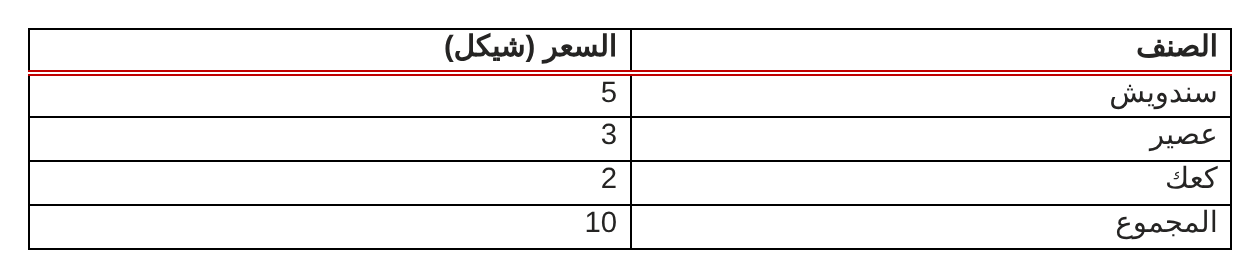
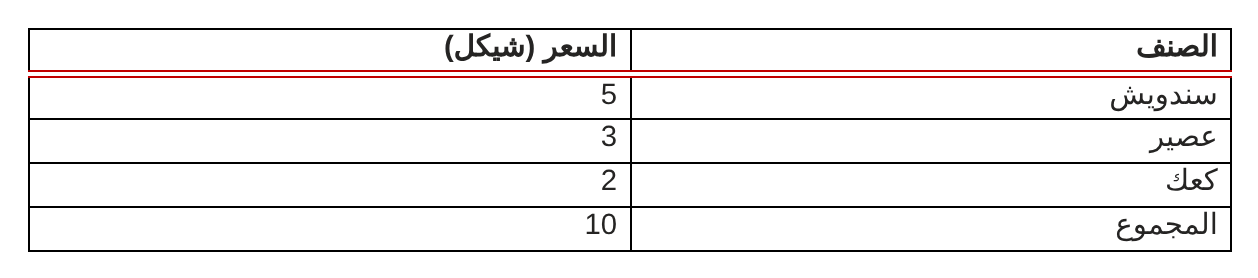
قائمة الحدود مثل Word: كل أمر مفتاح تشغيل/إيقاف، الأوامر المفعّلة مظلّلة، وإضافة حد داخلي أفقي/عمودي وحدود قطرية
Claude-Session: https://claude.ai/code/session_01SbWiHNL6HNT2SQV93v4NLa

diff --git a/js/tabletools.js b/js/tabletools.js
@@ -230,3 +230,44 @@ window.bordersDlg=function(tab){if(!needCell())return;const t=S.curCell.closest(
    qa('.bdApply').forEach(x=>x.onchange=()=>{st.apply=x.value;paint()});
    if(tab==='shade')qa('.bdtabs button')[2].click();paint()}})};
 OPS.tborders=(function(prev){return function(a){if(a==='more')return window.bordersDlg();return prev.call(this,a)}})(OPS.tborders);
+
+/* ===== قائمة «حدود» مثل Word: كل أمر يعمل كمفتاح — إذا كان الحد موجودًا بنفس القلم يُزال، وإلا يُطبَّق ===== */
+(function(){
+const KS={all:['top','bottom','left','right','ih','iv'],outside:['top','bottom','left','right'],inside:['ih','iv'],ih:['ih'],iv:['iv'],top:['top'],bottom:['bottom'],left:['left'],right:['right']};
+const tbCells=()=>{const t=S.curCell.closest('table');return S.selCells.length?[...S.selCells]:[...t.querySelectorAll('td')]};
+const inf=(td,s)=>{const c=getComputedStyle(td),S2=SIDE_CAP[s];return {s:c['border'+S2+'Style'],w:parseFloat(c['border'+S2+'Width'])||0,c:c['border'+S2+'Color']}};
+const vis=i=>i.s!=='none'&&i.s!=='hidden'&&i.w>0&&!/rgba\(0, 0, 0, 0\)|transparent/.test(i.c);
+const rgb=h=>{const d=document.createElement('i');d.style.color=h;document.body.appendChild(d);const v=getComputedStyle(d).color;d.remove();return v};
+function pen(){const p=S.pen||{};return {s:p.s||'solid',w:Math.max(+p.w||1,p.s==='double'?4:1),c:rgb(p.c||'#000')}}
+const same=(i,p)=>i.s===p.s&&Math.abs(i.w-p.w)<.6&&i.c===p.c;
+function edges(cs){const t=cs[0].closest('table'),g=gridMap(t),rtl=isRTLt(t);const bs=cs.map(c=>g.get(c)).filter(Boolean);if(!bs.length)return [];
+  const R1=Math.min(...bs.map(b=>b.r1)),R2=Math.max(...bs.map(b=>b.r2)),C1=Math.min(...bs.map(b=>b.c1)),C2=Math.max(...bs.map(b=>b.c2));const lo=rtl?'right':'left',hi=rtl?'left':'right';const out=[];
+  cs.forEach(c=>{const v=g.get(c);if(!v)return;const outer={top:v.r1===R1,bottom:v.r2===R2,[lo]:v.c1===C1,[hi]:v.c2===C2};
+    ['top','bottom','left','right'].forEach(s=>{const k=outer[s]?s:(s==='top'||s==='bottom')?'ih':'iv';out.push({k,td:c,s})})});return out}
+function edgeOn(e,p){const a=inf(e.td,e.s);if(vis(a))return p?same(a,p):true;const n=neighbour(e.td,e.s);if(n){const b=inf(n,OPP[e.s]);if(vis(b))return p?same(b,p):true}return false}
+const DG={diagDown:'d',diagUp:'u'};
+function hasDiag(td,k){return (td.dataset.dg||'').includes(k)}
+function drawDiag(td){td.querySelector(':scope > svg.tdiag')?.remove();const dg=td.dataset.dg||'';if(!dg){if(td.style.position==='relative')td.style.position='';return}
+  const c=td.dataset.dgc||'#000',w=td.dataset.dgw||1;td.style.position='relative';
+  const ns='http://www.w3.org/2000/svg',sv=document.createElementNS(ns,'svg');sv.setAttribute('class','tdiag');sv.setAttribute('viewBox','0 0 100 100');sv.setAttribute('preserveAspectRatio','none');sv.setAttribute('contenteditable','false');
+  sv.setAttribute('style','position:absolute;inset:0;width:100%;height:100%;pointer-events:none;overflow:visible');
+  sv.innerHTML=(dg.includes('d')?`<line x1="0" y1="0" x2="100" y2="100" stroke="${c}" stroke-width="${w}" vector-effect="non-scaling-stroke"/>`:'')+(dg.includes('u')?`<line x1="0" y1="100" x2="100" y2="0" stroke="${c}" stroke-width="${w}" vector-effect="non-scaling-stroke"/>`:'');td.appendChild(sv)}
+window.drawDiag=drawDiag;
+window.TB_STATE=a=>{try{if(!S.curCell||!S.curCell.closest('table'))return false;const cs=tbCells();if(DG[a])return cs.every(td=>hasDiag(td,DG[a]));
+  if(a==='none'){return edges(cs).every(e=>!edgeOn(e))&&cs.every(td=>!td.dataset.dg)}const ks=KS[a];if(!ks)return false;const es=edges(cs).filter(e=>ks.includes(e.k));return es.length>0&&es.every(e=>edgeOn(e))}catch(e){return false}};
+const prev=OPS.tborders;
+OPS.tborders=function(a){if(a==='more')return window.bordersDlg();if(a==='drawTable'||a==='viewGrid')return run(a);if(!needCell())return;const cs=tbCells();
+  if(DG[a]){snap();const k=DG[a],on=!cs.every(td=>hasDiag(td,k)),p=S.pen||{};cs.forEach(td=>{let d=(td.dataset.dg||'').replace(k,'');if(on){d+=k;td.dataset.dgc=p.c||'#000';td.dataset.dgw=Math.max(+p.w||1,1)}if(d)td.dataset.dg=d;else{delete td.dataset.dg;delete td.dataset.dgc;delete td.dataset.dgw}drawDiag(td)});logAct('tborders:'+a+(on?'':':off'));SIM.emit&&SIM.emit('change');return}
+  const ks=KS[a||'all'];
+  if(ks){const P=pen();const es=edges(cs).filter(e=>ks.includes(e.k));const off=es.length&&es.every(e=>edgeOn(e,P));
+    if(off&&!S._noTog){snap();const sp={};ks.forEach(k=>sp[k]=false);applyBorderSet(cs,sp,penBd());logAct('tborders:'+a+':off');SIM.emit&&SIM.emit('change');try{simToast('أُزيل الحد — اضغطه مرة أخرى لإرجاعه')}catch(e){}return}
+    snap();const sp={};ks.forEach(k=>sp[k]=true);applyBorderSet(cs,sp,penBd());logAct('tborders:'+(a||'all'));SIM.emit&&SIM.emit('change');return}
+  if(a==='none'){const r=prev.call(this,a);cs.forEach(td=>{if(td.dataset.dg){delete td.dataset.dg;delete td.dataset.dgc;delete td.dataset.dgw;drawDiag(td)}});return r}
+  return prev.call(this,a)};
+/* إظهار الأمر المفعّل في القائمة (مثل Word) */
+const _om=openMenu;openMenu=function(w){_om(w);try{const dd=w.querySelector('[data-dd]');const cmd=dd&&dd.dataset.cmd;const F=cmd==='tborders'?window.TB_STATE:cmd==='pborders'?window.PB_STATE:null;
+  w.querySelectorAll('.dd .mi.act').forEach(m=>m.classList.remove('act'));if(F)w.querySelectorAll('.dd .mi[data-arg]').forEach(m=>{if(!['more','hr','drawTable'].includes(m.dataset.arg)&&F(m.dataset.arg))m.classList.add('act')});
+  if(cmd==='tborders'||cmd==='pborders'){const g=w.querySelector('.dd .mi[data-arg="viewGrid"]');if(g)g.classList.toggle('act',doc.classList.contains('vgrid'))}}catch(e){}};
+})();
+
+OPS.borderPainter=function(){S._noTog=1;try{OPS.tborders('all')}finally{S._noTog=0}};

diff --git a/index.html b/index.html
@@ -3,14 +3,14 @@
 <head>
 <meta http-equiv="Cache-Control" content="no-cache, no-store, must-revalidate"><meta http-equiv="Pragma" content="no-cache"><meta http-equiv="Expires" content="0">
 <script>window.LW=()=>document.documentElement.clientWidth||innerWidth;window.LH=()=>document.documentElement.clientHeight||innerHeight;</script>
-<script>window.APPV="11212221";fetch("version.json?"+Date.now(),{cache:"no-store"}).then(r=>r.json()).then(j=>{if(j.v&&j.v!==window.APPV){const k="wl-reload-"+j.v;if(!sessionStorage.getItem(k)){sessionStorage.setItem(k,1);location.replace(location.pathname+"?v="+j.v+location.hash)}}}).catch(()=>{});</script>
+<script>window.APPV="11230019";fetch("version.json?"+Date.now(),{cache:"no-store"}).then(r=>r.json()).then(j=>{if(j.v&&j.v!==window.APPV){const k="wl-reload-"+j.v;if(!sessionStorage.getItem(k)){sessionStorage.setItem(k,1);location.replace(location.pathname+"?v="+j.v+location.hash)}}}).catch(()=>{});</script>
 <meta charset="utf-8">
 <meta name="viewport" content="width=device-width,initial-scale=1">
 <title>برنامج وورد — دليل التطبيق العملي</title>
 <link rel="preconnect" href="https://fonts.googleapis.com">
 <link href="https://fonts.googleapis.com/css2?family=Tajawal:wght@400;500;700;800&display=swap" rel="stylesheet">
-<link rel="stylesheet" href="css/word.css?v=11212221">
-<link rel="stylesheet" href="css/app.css?v=11212221">
+<link rel="stylesheet" href="css/word.css?v=11230019">
+<link rel="stylesheet" href="css/app.css?v=11230019">
 </head>
 <body>
 <div id="gate" hidden></div>
@@ -29,34 +29,34 @@
 </div>
 <div id="ovl" style="position:absolute;left:0;top:0;width:0;height:0;z-index:1200"><div id="ring"></div><div id="bubble"></div><div id="rtip"></div></div><div id="blocker"></div><button id="stopDemo">⏹ إيقاف المشاهدة</button>
 <div id="cursor"><svg viewBox="0 0 24 24" width="30" height="30"><path d="M4 2l15 11-7 1 4 8-3 1.5-4-8-5 5z" fill="#fff" stroke="#111" stroke-width="1.4" stroke-linejoin="round"/></svg></div>
-<script src="js/zoomfix.js?v=11212221"></script>
-<script src="js/icons.js?v=11212221"></script>
-<script src="js/data.js?v=11212221"></script>
-<script src="js/ribbon.js?v=11212221"></script>
-<script src="js/doc.js?v=11212221"></script>
-<script src="js/features.js?v=11212221"></script>
-<script src="js/tables.js?v=11212221"></script>
-<script src="js/objects.js?v=11212221"></script>
-<script src="js/learn.js?v=11212221"></script>
-<script src="js/content.js?v=11212221"></script>
-<script src="js/lessons.js?v=11212221"></script>
-<script src="js/tproject-snaps.js?v=11212221"></script>
-<script src="js/tproject.js?v=11212221"></script>
-<script src="js/tablepics.js?v=11212221"></script>
-<script src="js/tabletools.js?v=11212221"></script>
-<script src="js/tablemouse.js?v=11212221"></script>
-<script src="js/parapro.js?v=11212221"></script>
-<script src="js/selbar.js?v=11212221"></script>
-<script src="js/autoplay.js?v=11212221"></script>
-<script src="js/guide.js?v=11212221"></script>
-<script src="js/curriculum.js?v=11212221"></script>
-<script src="js/morepics.js?v=11212221"></script>
-<script src="js/demos.js?v=11212221"></script>
-<script src="js/tdemos.js?v=11212221"></script>
-<script src="js/topics-meta.js?v=11212221"></script>
-<script src="js/config.js?v=11212221"></script>
-<script src="js/cloud.js?v=11212221"></script>
-<script src="js/stats.js?v=11212221"></script>
+<script src="js/zoomfix.js?v=11230019"></script>
+<script src="js/icons.js?v=11230019"></script>
+<script src="js/data.js?v=11230019"></script>
+<script src="js/ribbon.js?v=11230019"></script>
+<script src="js/doc.js?v=11230019"></script>
+<script src="js/features.js?v=11230019"></script>
+<script src="js/tables.js?v=11230019"></script>
+<script src="js/objects.js?v=11230019"></script>
+<script src="js/learn.js?v=11230019"></script>
+<script src="js/content.js?v=11230019"></script>
+<script src="js/lessons.js?v=11230019"></script>
+<script src="js/tproject-snaps.js?v=11230019"></script>
+<script src="js/tproject.js?v=11230019"></script>
+<script src="js/tablepics.js?v=11230019"></script>
+<script src="js/tabletools.js?v=11230019"></script>
+<script src="js/tablemouse.js?v=11230019"></script>
+<script src="js/parapro.js?v=11230019"></script>
+<script src="js/selbar.js?v=11230019"></script>
+<script src="js/autoplay.js?v=11230019"></script>
+<script src="js/guide.js?v=11230019"></script>
+<script src="js/curriculum.js?v=11230019"></script>
+<script src="js/morepics.js?v=11230019"></script>
+<script src="js/demos.js?v=11230019"></script>
+<script src="js/tdemos.js?v=11230019"></script>
+<script src="js/topics-meta.js?v=11230019"></script>
+<script src="js/config.js?v=11230019"></script>
+<script src="js/cloud.js?v=11230019"></script>
+<script src="js/stats.js?v=11230019"></script>
 <script>cloudInit();</script>
 </body>
 </html>

diff --git a/js/ribbon.js b/js/ribbon.js
@@ -178,7 +178,7 @@ const PANELS={
  multilevel:()=>`<div class="ngal"><button data-cmd="multilevel" data-arg="1">1.<br>&nbsp;1.1.<br>&nbsp;&nbsp;1.1.1.</button><button data-cmd="multilevel" data-arg="2">1)<br>&nbsp;a)<br>&nbsp;&nbsp;i)</button></div>`,
  linespacing:()=>['1.0','1.15','1.5','2.0','2.5','3.0'].map(v=>mi('linespacing',v,v,null)).join('')+sep+mi('paraDlg',null,'خيارات تباعد الأسطر...','linespacing')+mi('spaceBefore',null,'إضافة مسافة قبل الفقرة','paraspacing')+mi('spaceAfter',null,'إزالة المسافة بعد الفقرة','paraspacing'),
  pborders:()=>[['bottom','حد سفلي'],['top','حد علوي'],['left','حد أيسر'],['right','حد أيمن'],['none','بلا حدود'],['all','كل الحدود'],['box','حدود خارجية'],['inside','حدود داخلية'],['ih','حد داخلي أفقي']].map(a=>mi('pborders',a[0],a[1],'borders')).join('')+sep+mi('pborders','hr','خط أفقي','borders')+mi('pborders','drawTable','رسم جدول','drawtable')+mi('pborders','viewGrid','عرض خطوط الشبكة','borders')+sep+mi('pborders','more','حدود وتظليل...','pageborders'),
- tborders:()=>[['bottom','حد سفلي'],['top','حد علوي'],['right','حد أيمن'],['left','حد أيسر'],['none','بلا حدود'],['all','كل الحدود'],['outside','حدود خارجية'],['inside','حدود داخلية']].map(a=>mi('tborders',a[0],a[1],'borders')).join('')+'<div class="msep"></div>'+mi('tborders','more','حدود وتظليل...','borders'),
+ tborders:()=>[['bottom','حد سفلي'],['top','حد علوي'],['left','حد أيسر'],['right','حد أيمن'],['none','بلا حدود'],['all','كل الحدود'],['outside','حدود خارجية'],['inside','حدود داخلية'],['ih','حد داخلي أفقي'],['iv','حد داخلي عمودي'],['diagDown','حد قطري لأسفل'],['diagUp','حد قطري لأعلى']].map(a=>mi('tborders',a[0],a[1],'borders')).join('')+'<div class="msep"></div>'+mi('tborders','drawTable','رسم جدول','drawtable')+mi('tborders','viewGrid','عرض خطوط الشبكة','borders')+'<div class="msep"></div>'+mi('tborders','more','حدود وتظليل...','borders'),
  themes:()=>`<div class="thgal">${THEMES.map((t,i)=>`<button data-cmd="theme" data-arg="${i}"><div class="thp" style="--a:${t.c[0]};--b:${t.c[1]};--c:${t.c[2]};font-family:${t.f}"><b>أب</b><i></i><i></i><i></i></div><span>${t.name}</span></button>`).join('')}</div>`,
  docColors:()=>THEMES.map((t,i)=>`<button class="mi" data-cmd="theme" data-arg="${i}"><span class="tcs">${t.c.map(c=>`<i style="background:${c}"></i>`).join('')}</span><span>${t.name}</span></button>`).join(''),
  docFonts:()=>THEMES.map((t,i)=>`<button class="mi" data-cmd="themeFont" data-arg="${i}"><span style="font-family:${t.f};font-size:16px">أب</span><span>${t.f.split(',')[0]}</span></button>`).join(''),

diff --git a/js/parapro.js b/js/parapro.js
@@ -13,14 +13,17 @@ function applyPB(bs,spec,bd){groups(bs).forEach(g=>{g.forEach((b,i)=>{const firs
    if(spec.ih!==undefined){if(!last)b.style.borderBottom=spec.ih?bd:'';if(!first)b.style.borderTop=''}
    if(g.length>1){if(!last)b.style.marginBottom='0';if(!first)b.style.marginTop='0'}
    tidy(b)})})}
+function PB_STATE(a){try{const bs=pbBlocks();if(!bs.length)return false;const g=groups(bs);const T=()=>g.every(x=>has(x[0],'top')),B=()=>g.every(x=>has(x[x.length-1],'bottom')),L=()=>bs.every(b=>has(b,'left')),R=()=>bs.every(b=>has(b,'right')),I=()=>g.every(x=>x.slice(0,-1).every(b=>has(b,'bottom')))&&g.some(x=>x.length>1);
+  return a==='top'?T():a==='bottom'?B():a==='left'?L():a==='right'?R():a==='box'?T()&&B()&&L()&&R():a==='all'?T()&&B()&&L()&&R()&&(I()||g.every(x=>x.length<2)):a==='inside'||a==='ih'?I():a==='none'?bs.every(b=>!['top','bottom','left','right'].some(k=>has(b,k))):false}catch(e){return false}}
+window.PB_STATE=PB_STATE;
 OPS.pborders=function(a){if(a==='more')return paraBordersDlg();if(!needSel())return;const bs=pbBlocks();if(!bs.length)return;
   if(a==='drawTable')return run('drawTable');if(a==='viewGrid')return run('viewGrid');
   a=a||S.lastPB||'bottom';snap();const bd=BD();
   if(a==='hr'){const hr=document.createElement('hr');hr.className='whr';bs[bs.length-1].after(hr);logAct('pborders:hr');SIM.emit('change');return}
   S.lastPB=a;const g=groups(bs);
   if(a==='none')applyPB(bs,{top:0,bottom:0,left:0,right:0,ih:0},bd);
-  else if(a==='box')applyPB(bs,{top:1,bottom:1,left:1,right:1,ih:0},bd);
-  else if(a==='all')applyPB(bs,{top:1,bottom:1,left:1,right:1,ih:1},bd);
+  else if(a==='box'){const on=!PB_STATE('box');applyPB(bs,on?{top:1,bottom:1,left:1,right:1,ih:0}:{top:0,bottom:0,left:0,right:0},bd)}
+  else if(a==='all'){const on=!PB_STATE('all');applyPB(bs,on?{top:1,bottom:1,left:1,right:1,ih:1}:{top:0,bottom:0,left:0,right:0,ih:0},bd)}
   else if(a==='inside'||a==='ih'){const on=!g.every(x=>x.slice(0,-1).every(b=>has(b,'bottom')));applyPB(bs,{ih:on?1:0},bd)}
   else{const on=a==='top'?!g.every(x=>has(x[0],'top')):a==='bottom'?!g.every(x=>has(x[x.length-1],'bottom')):!bs.every(b=>has(b,a));applyPB(bs,{[a]:on?1:0},bd)}
   logAct('pborders:'+a);SIM.emit('change')};

diff --git a/admin.html b/admin.html
@@ -5,7 +5,7 @@
 <meta name="viewport" content="width=device-width,initial-scale=1">
 <title>لوحة المتابعة — برنامج وورد</title>
 <link href="https://fonts.googleapis.com/css2?family=Tajawal:wght@400;500;700;800&display=swap" rel="stylesheet">
-<link rel="stylesheet" href="css/app.css?v=11212221">
+<link rel="stylesheet" href="css/app.css?v=11230019">
 <style>
 body{overflow:auto;height:auto;min-height:100vh}
 .atop{display:flex;align-items:center;gap:12px;padding:12px 20px;background:var(--side);color:#fff;position:sticky;top:0;z-index:5}
@@ -49,8 +49,8 @@ table.mini{font-size:13px}table.mini th{position:static}table.mini tr.r2 td:nth-
 <div class="atop"><span class="logo">W</span><b>لوحة المتابعة</b><span class="sp"></span><span id="who" class="muted" style="color:#93a2ba"></span><a href="index.html">فتح الموقع</a><button id="out">خروج</button></div>
 <div class="atabs" id="atabs"><button data-v="track" class="on">📊 المتابعة</button><button data-v="unlock">🔓 فتح الدروس</button><button data-v="students">👩🎓 الطلاب</button><button data-v="sections">🏫 الشعب</button></div>
 <div class="wrap" id="view"></div>
-<script src="js/config.js?v=11212221"></script>
-<script src="js/topics-meta.js?v=11212221"></script>
+<script src="js/config.js?v=11230019"></script>
+<script src="js/topics-meta.js?v=11230019"></script>
 <script>
 const inSec=(st,id)=>st.section_id===id||(st.extra||[]).includes(id);
 const $=s=>document.querySelector(s),$$=s=>[...document.querySelectorAll(s)];const T=(window.ONLY_TOPICS?window.TOPICS_META.filter(t=>ONLY_TOPICS.includes(t.id)):window.TOPICS_META);

diff --git a/css/word.css b/css/word.css
@@ -529,3 +529,4 @@ body:has(#dlgs.show) #tblhandle,body:has(.ddw.open) #tblhandle{display:none!impo
 .bp.h{position:absolute;left:-26px;top:50%;transform:translateY(-50%)}
 .obj.sel2{outline:1px dashed #2b579a;outline-offset:2px}
 .obj .pcap{position:absolute;left:0;right:0;bottom:0;background:rgba(43,87,154,.85);color:#fff;font:600 12pt Arial;text-align:center;padding:4px 6px;outline:none}
+.dd .mi.act{background:#cfe0f5;box-shadow:inset 0 0 0 1px #7da7d9}.dd .mi.act:hover{background:#bcd3f0}
